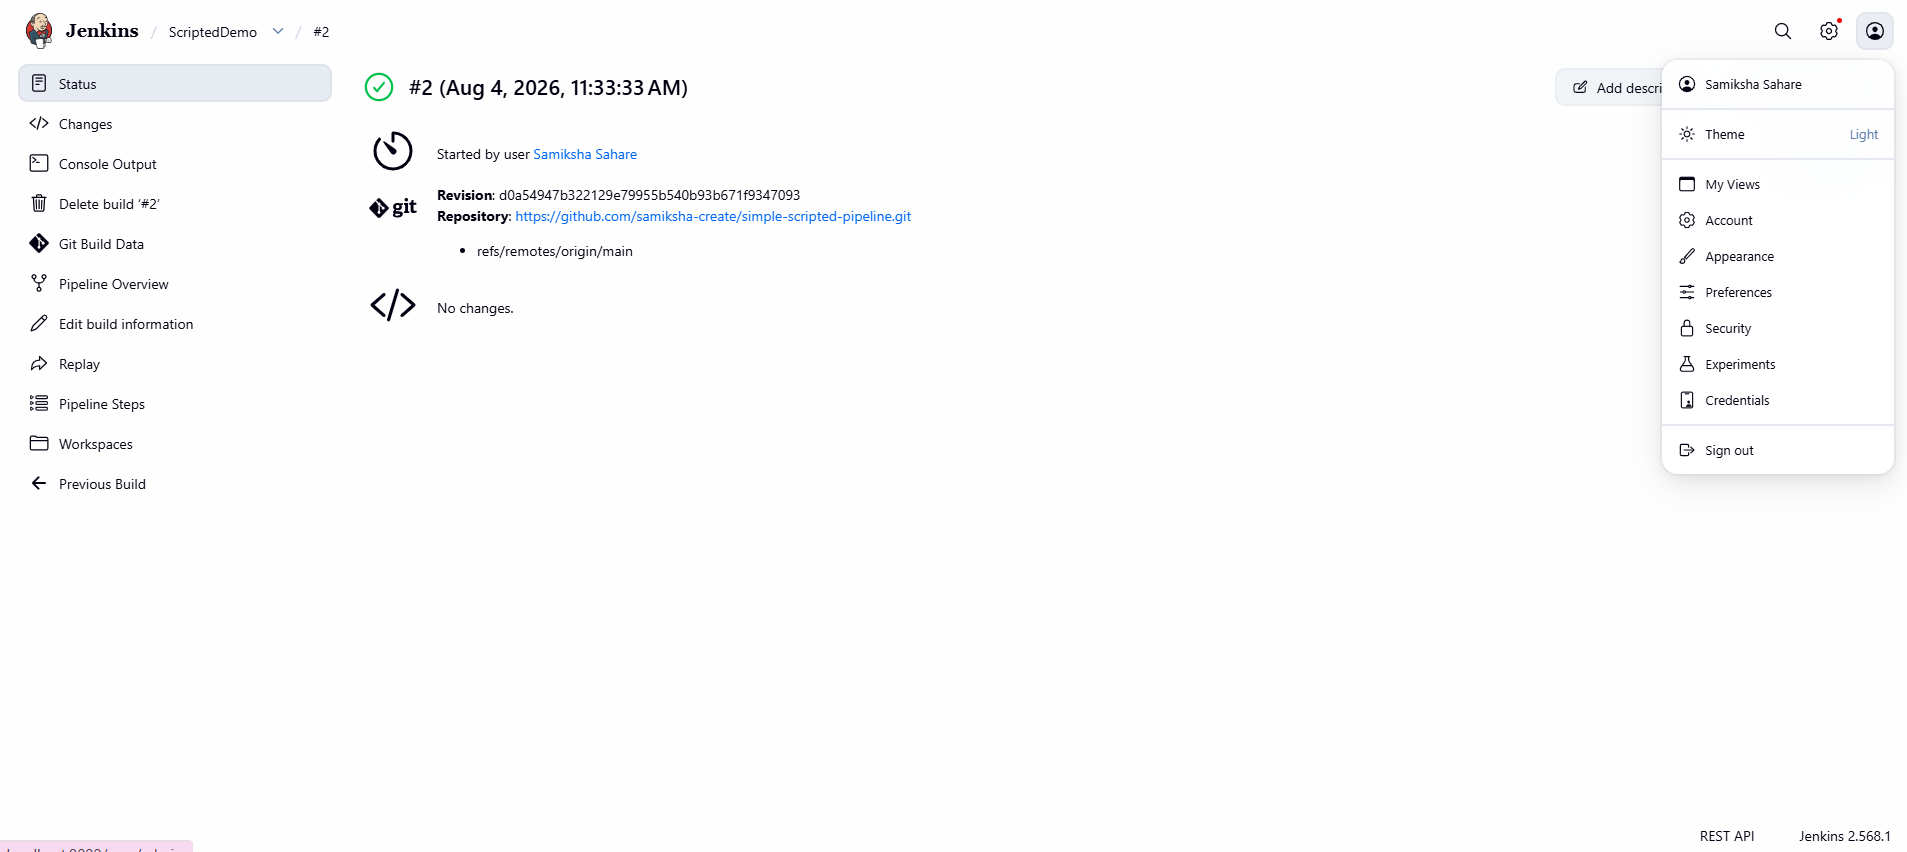
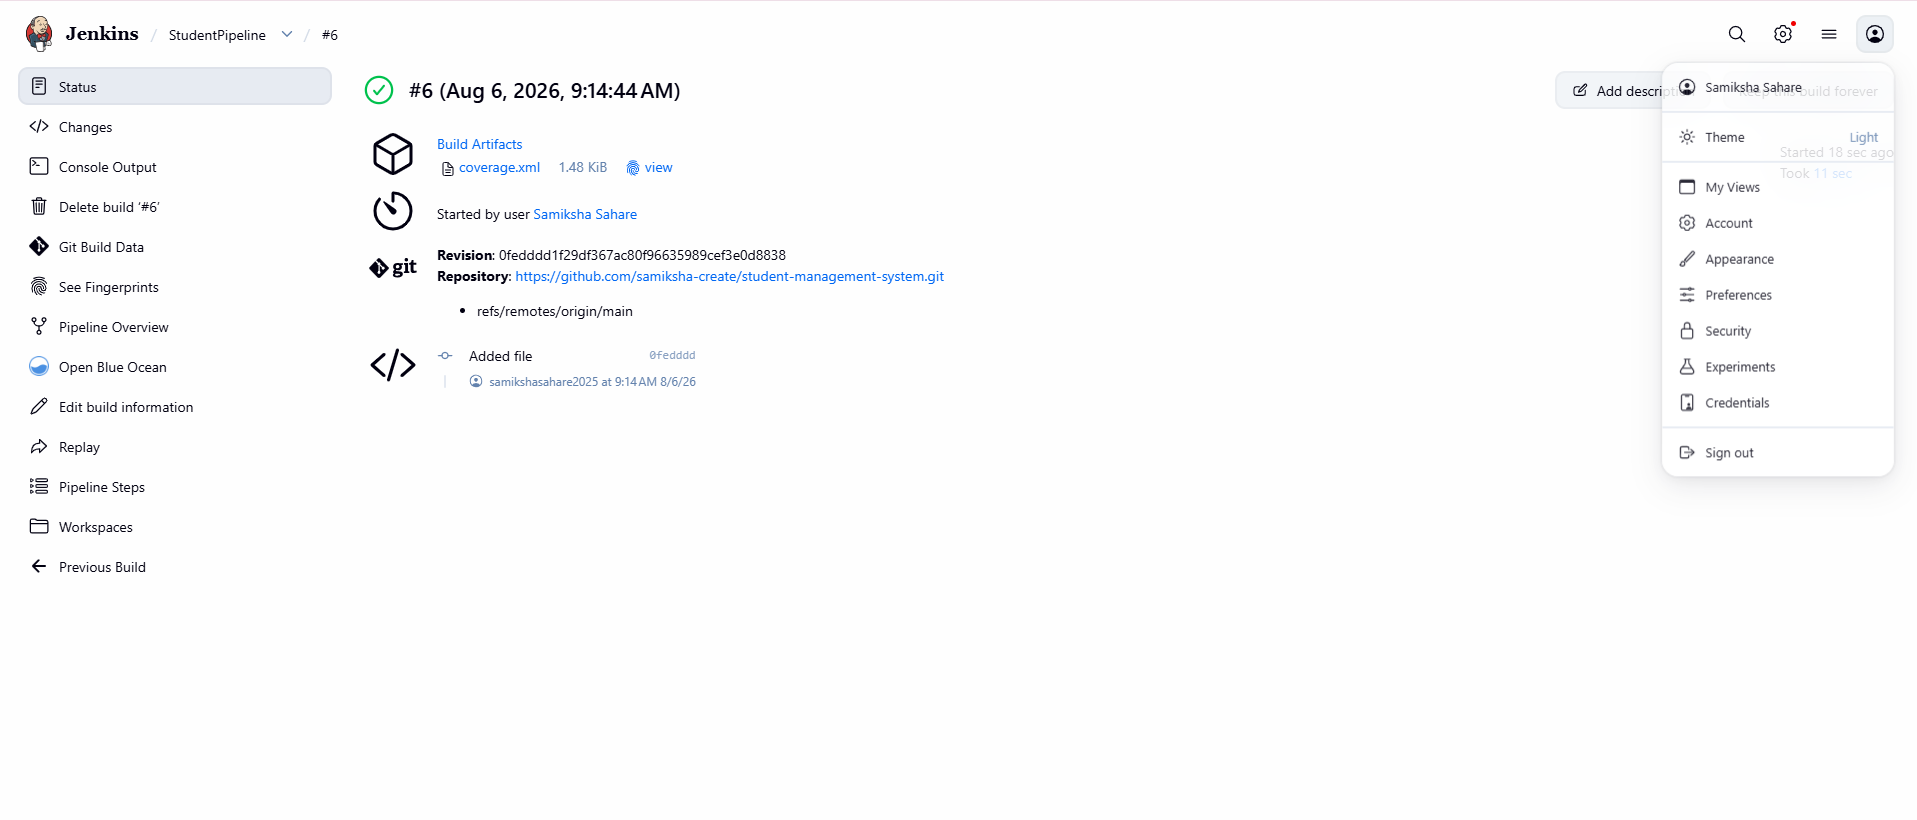
Added Lab 6

diff --git a/MCA2504056_Samiksha_Sahare/Lab 6/test_calculator.py b/MCA2504056_Samiksha_Sahare/Lab 6/test_calculator.py
@@ -1,0 +1,17 @@
+from calculator import add, subtract, multiply, divide
+
+
+def test_add():
+    assert add(10, 5) == 15
+
+
+def test_subtract():
+    assert subtract(10, 5) == 5
+
+
+def test_multiply():
+    assert multiply(10, 5) == 50
+
+
+def test_divide():
+    assert divide(10, 5) == 2

diff --git a/MCA2504056_Samiksha_Sahare/Lab 6/app.py b/MCA2504056_Samiksha_Sahare/Lab 6/app.py
@@ -1,0 +1,8 @@
+from calculator import add, subtract, multiply, divide
+
+print("Calculator Application")
+
+print("Addition =", add(15, 10))
+print("Subtraction =", subtract(15, 10))
+print("Multiplication =", multiply(15, 10))
+print("Division =", divide(15, 10))

diff --git a/MCA2504056_Samiksha_Sahare/Lab 6/calculator.py b/MCA2504056_Samiksha_Sahare/Lab 6/calculator.py
@@ -1,0 +1,14 @@
+def add(a, b):
+    return a + b
+
+
+def subtract(a, b):
+    return a - b
+
+
+def multiply(a, b):
+    return a * b
+
+
+def divide(a, b):
+    return a / b
